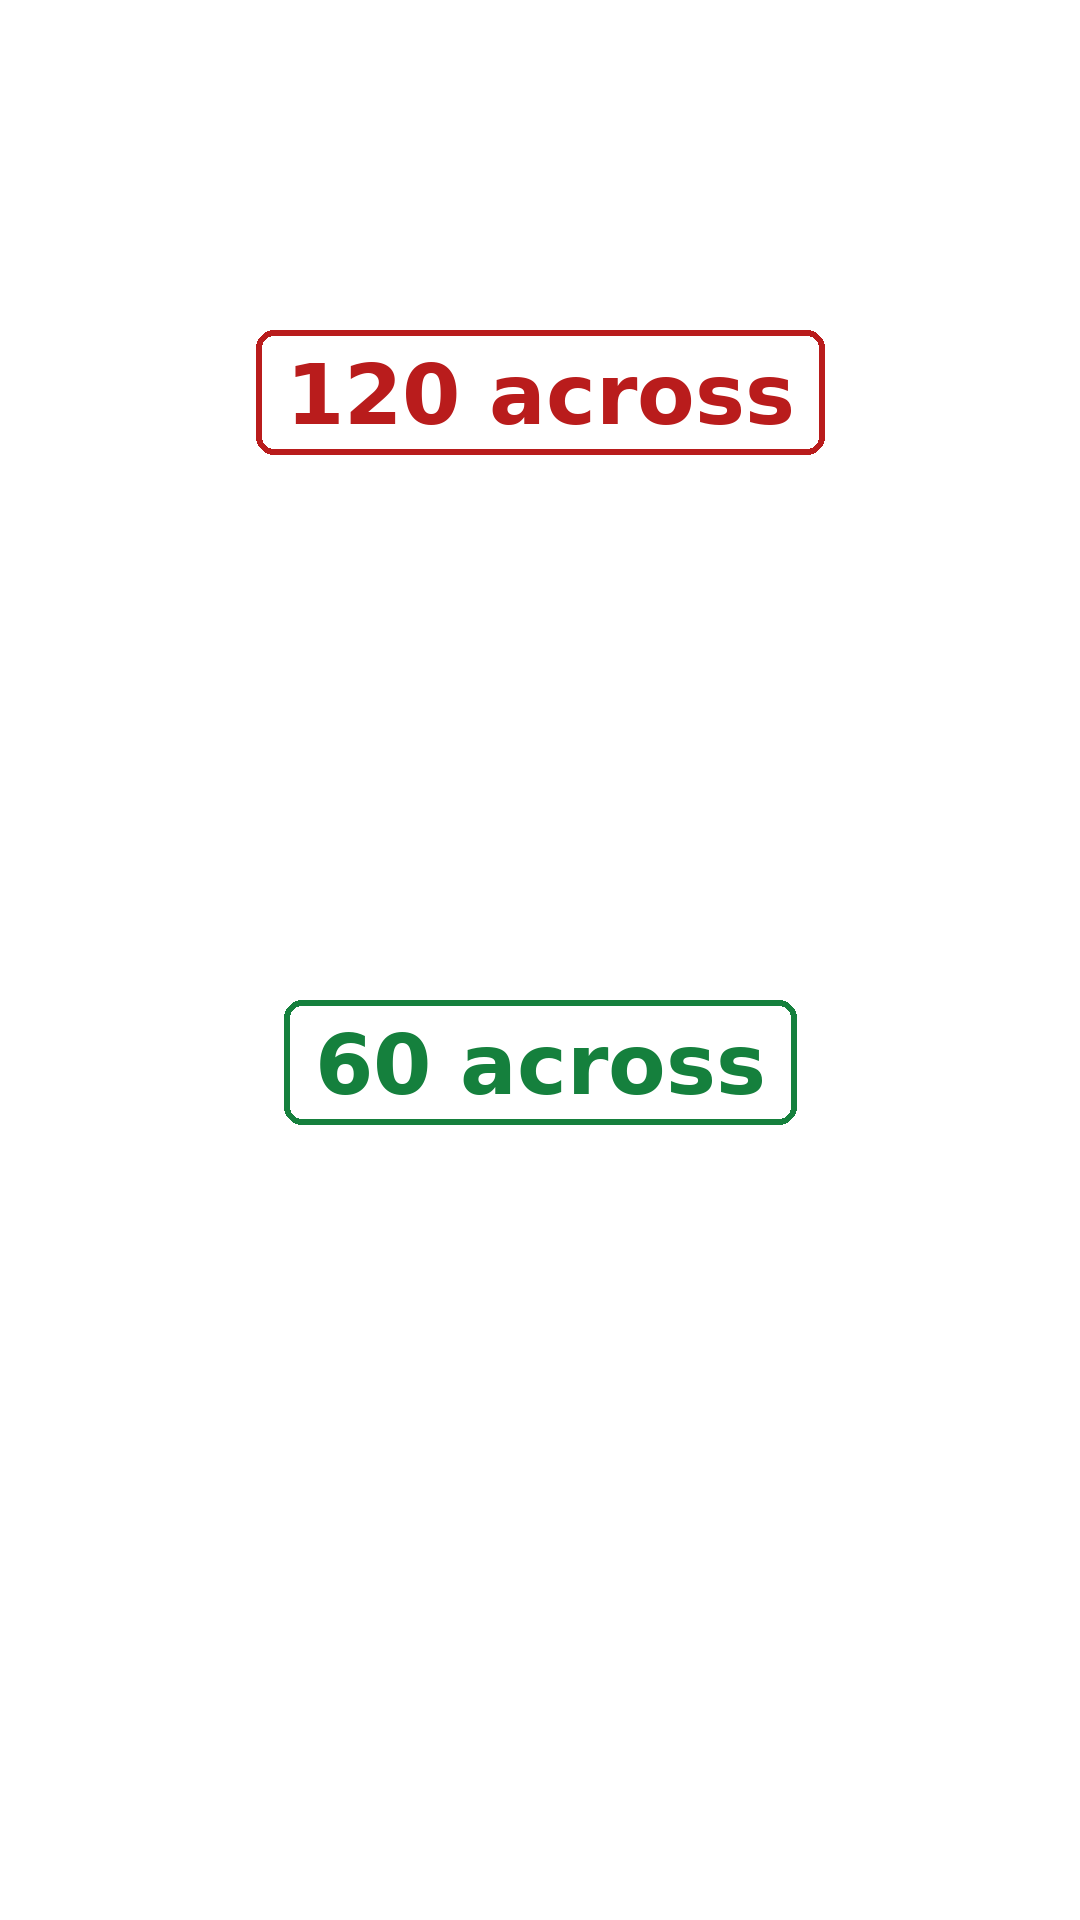
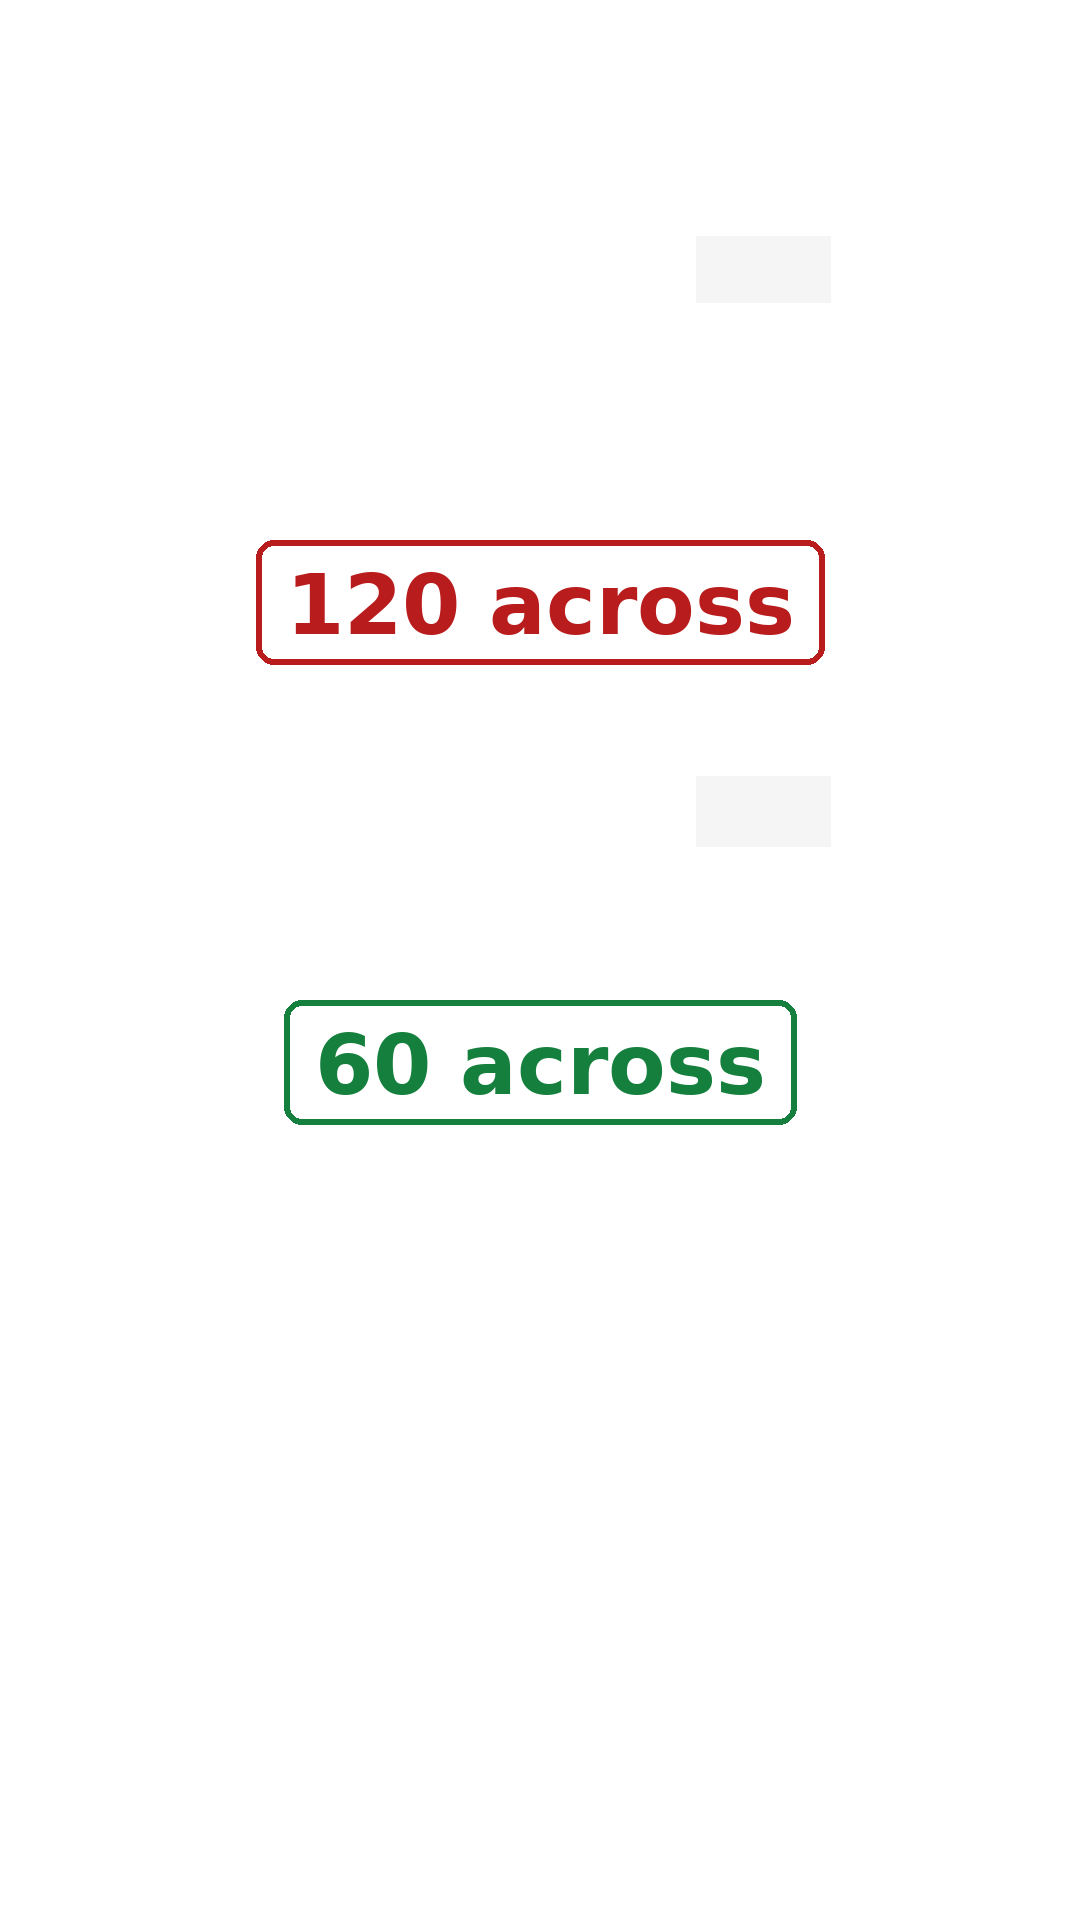
fc18 Short: '120 across' label below the rim, nav-cube corners covered

diff --git a/video/draw_fc18.py b/video/draw_fc18.py
@@ -233,7 +233,11 @@ def short_overlays():
     im = Image.new('RGBA', (1080, 1920), (0, 0, 0, 0))     # S0 frame 1: a big label over each stacked cup
     d = ImageDraw.Draw(im)
     CUR.clear()
-    big_label(d, 540, 330, '120 across', RED, px=84)
+    # take S stacked (VIEW_Y 236, 0.5 scale): the 120 cup's rim spans y ~306-510, so its label sits on the body below
+    # the rim (like the 60 label); light patches (FreeCAD grey) hide the nav cube corner of each half
+    for y0, y1 in ((236, 302), (776, 846)):
+        d.rectangle((696, y0, 830, y1), fill=(245, 245, 245, 255))
+    big_label(d, 540, 540, '120 across', RED, px=84)
     big_label(d, 540, 1000, '60 across', GREEN, px=84)
     save(im, 'short-tile.png')
 
